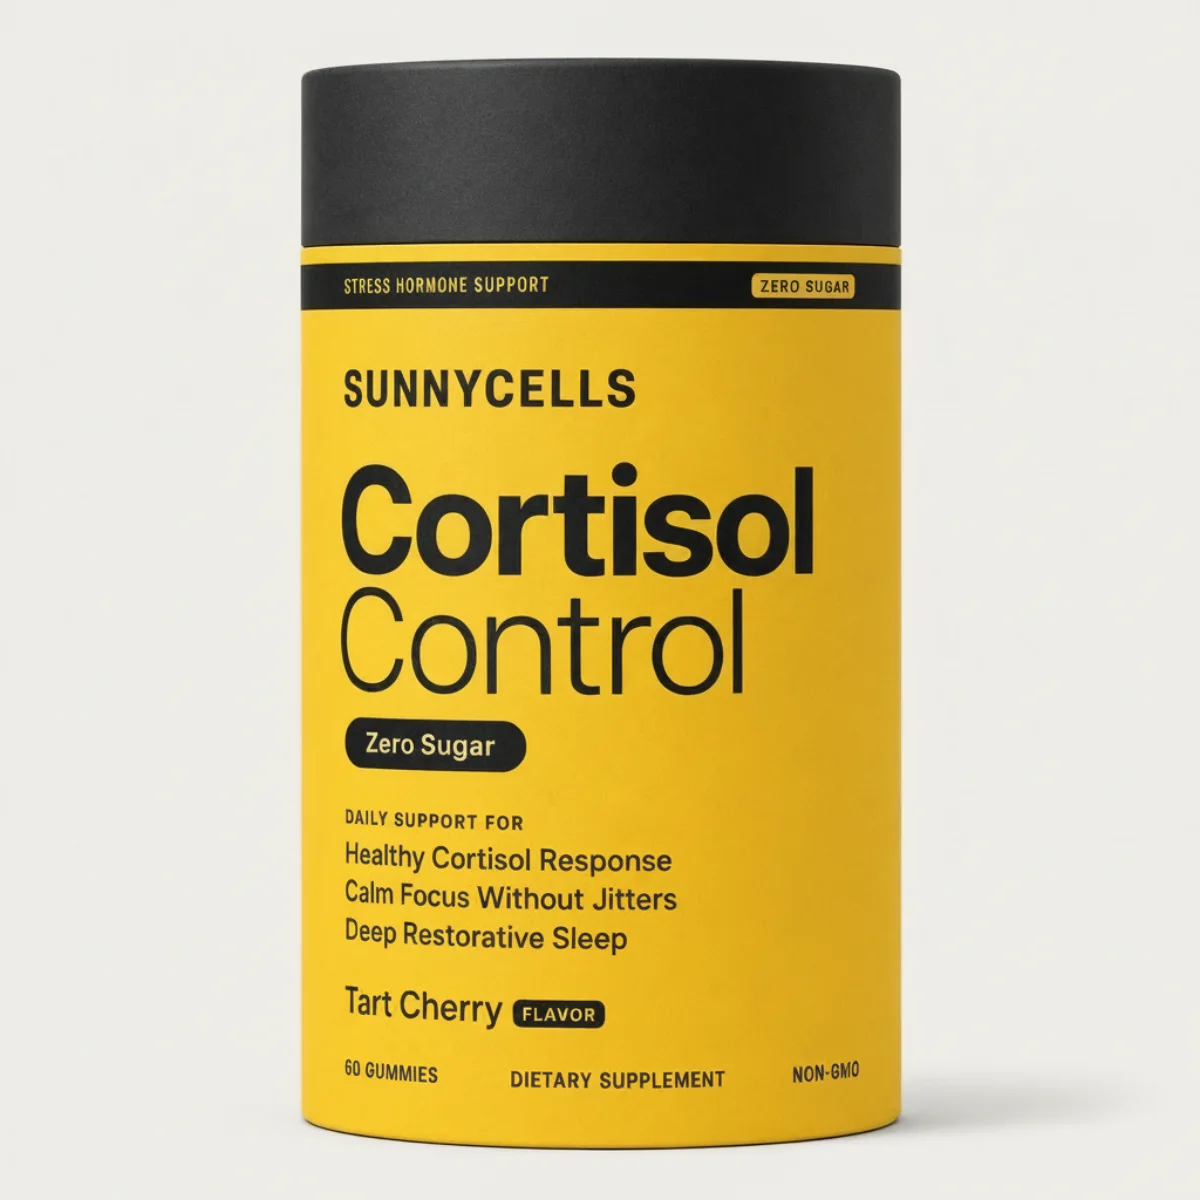
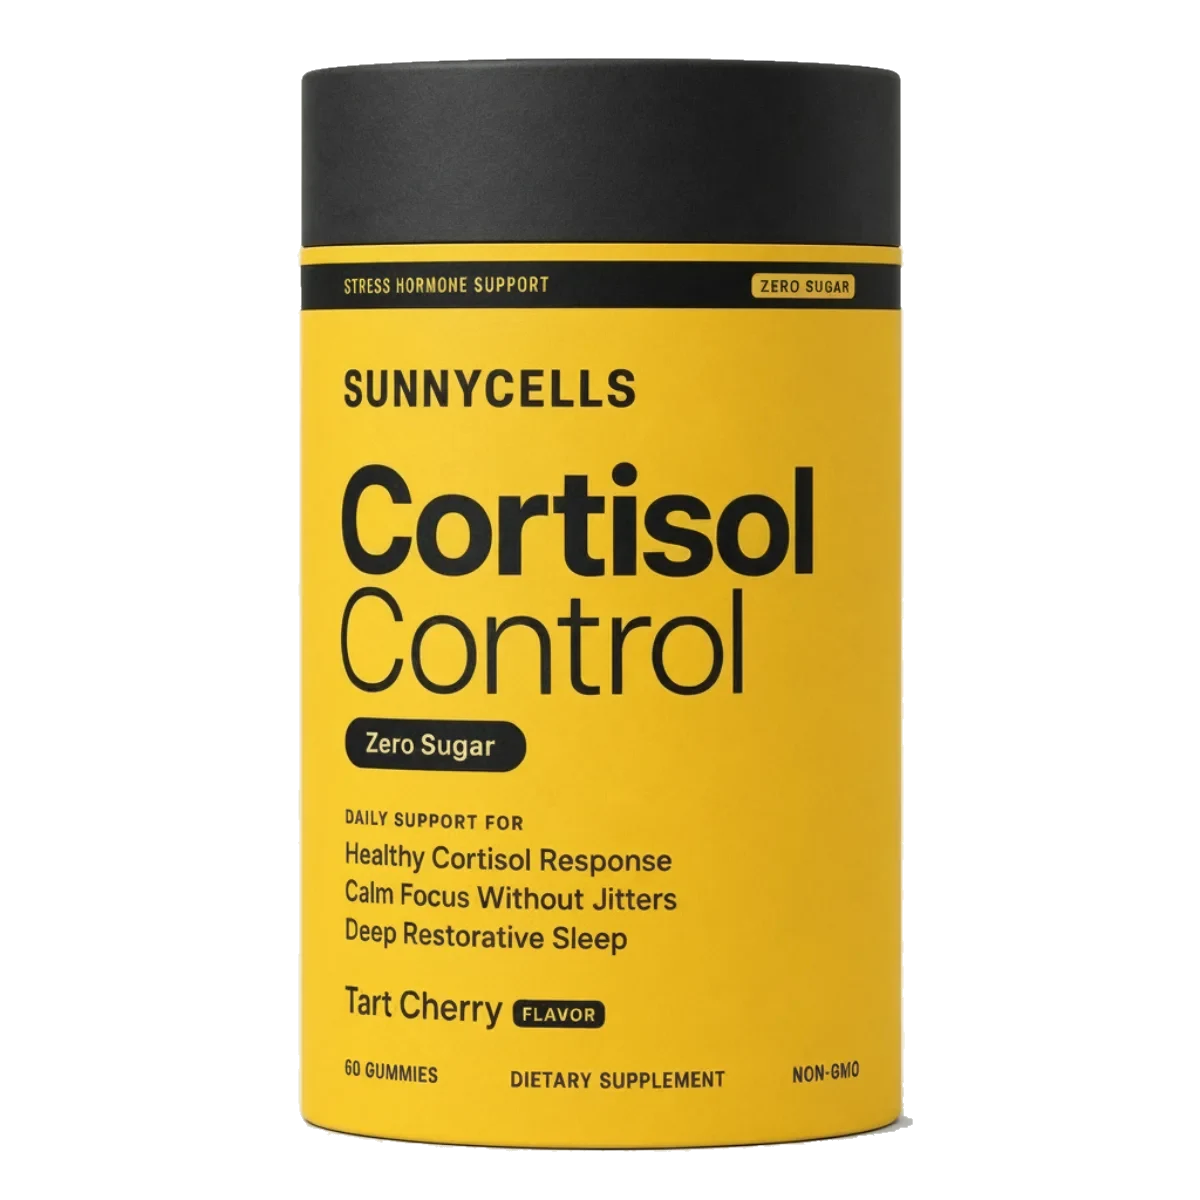
Cut out the pack backgrounds, and move the staging copy off the scoop
The three pack shots sit on cream cards and a tinted hero, so their studio
ground was showing as a rectangle. Cut with scripts/cutout.mjs.

That script only cleared background reachable from the border, which is right
for one product but leaves the floor between products in a group shot: it is
walled off by the products themselves. It gets a second pass now for enclosed
patches of background colour, gated on area so light lettering inside a dark
band survives while a floor does not.

The enclosed pass needed its own colour test. A floor lit by a coloured product
picks up that colour and stops being neutral: measured at spread 24 on the open
floor under the yellow canisters and 34 in the contact shadow, where the flood's
limit is 16. Loosening the flood itself would have eaten the specular highlights
down the tube, so the tolerance is raised only where enclosure and area already
prove it is floor.

Copy re-pointed off the powder: product name, plans title, ingredients heading,
both how-it-works steps, the flavour row in the comparison, five FAQs, all four
reviews and the headline one. Claims, timings and prices are the live page's,
untouched. Scoop, stir and powder survive in three places on purpose, as the
contrast: "no scoop", "chewing them is the whole routine", and a customer
saying she is wary of powders.

diff --git a/lib/quiz/stagingPlansContent.ts b/lib/quiz/stagingPlansContent.ts
@@ -10,6 +10,13 @@ import { PLANS, type Plan } from "./plans";
  * STATIC STAGING. It is not wired into the funnel, nothing links to it, and its route
  * is noindex. The live page at /quiz/diet/results/plans is unchanged.
  *
+ * The copy is also re-pointed off the powder. The live page is a scoop mixed into
+ * water, and every line that says so had to move: the product name, the plans title,
+ * the ingredients heading, both how-it-works steps, the comparison rows about flavour,
+ * six FAQs, and the four reviews plus the headline one, which between them mention a
+ * scoop, mixing, dissolving, powders and a mild orange squash. Nothing else changed:
+ * the claims, the timings and the prices are the live page's.
+ *
  * The eight ingredient panels keep their existing photographs. Those are real
  * ingredient shots that already ship, and the new set has no equivalent for
  * rhodiola or phosphatidylserine, so swapping them would be a downgrade.
@@ -23,9 +30,59 @@ export const STAGING_PLANS: Plan[] = PLANS.map((p) => ({
   image: `${IMG}/${p.months === 1 ? "pack-1" : p.months === 3 ? "pack-3" : "pack-6"}.webp`,
 }));
 
+const PRODUCT = "Cortisol Control";
+
+/* Reviews are the live ones with the format changed and nothing else: the same people,
+   the same claims, the same timings. Only what they are putting in their mouth moves. */
+const REVIEWS = [
+  { ...DIET_PLANS_CONTENT.reviews[0] },
+  {
+    ...DIET_PLANS_CONTENT.reviews[1],
+    body: "A month in and the three o'clock write-off has stopped. They taste like a proper tart cherry sweet, which matters when you are taking them every single morning.",
+  },
+  {
+    ...DIET_PLANS_CONTENT.reviews[2],
+    body: "I have taken enough powders to be suspicious of all of them. This one prints the milligrams on the front, which is the only reason I tried it. Two months on and I feel steadier than I have in years.",
+  },
+  {
+    ...DIET_PLANS_CONTENT.reviews[3],
+    body: "Two gummies, five seconds, no scoop and no shaker to wash. I tested cancelling in the first month on purpose and it took two clicks. I resubscribed the week after, which says more than the copy does.",
+  },
+];
+
 export const STAGING_PLANS_CONTENT: PlansContent = {
   ...DIET_PLANS_CONTENT,
+  productName: PRODUCT,
   productImage: `${IMG}/pack-1.webp`,
+  plansTitle: "Let the gummies do the work",
+  reviews: REVIEWS.map((r, i) => ({ ...r, photo: `${IMG}/review-${i + 1}.webp` })),
+  ingredientsTitle: `The science behind the core ingredients of ${PRODUCT}`,
+  comparisonNote: "Compared to other cortisol lowering supplements",
+  comparison: DIET_PLANS_CONTENT.comparison.map((c) =>
+    c === "Amazing orange flavor" ? "Amazing tart cherry flavor" : c),
+  faqs: DIET_PLANS_CONTENT.faqs.map((f) => {
+    const swap: Record<string, { title?: string; body?: string }> = {
+      "How do I use Metabolic Morning Blend?": {
+        title: `How do I use ${PRODUCT}?`,
+        body: "Two gummies a day, in the morning, with or without food. Chewing them is the whole routine.",
+      },
+      "How does it taste?": { body: "Tart cherry, mild, no sugar. It tastes like a sweet rather than a supplement." },
+      "Can I mix it with other products?": {
+        title: "Can I take it with other products?",
+        body: "Yes. It has no stimulants in it, so it sits alongside coffee, a protein shake, or anything else you already take.",
+      },
+      "Where should I store Metabolic Morning Blend?": {
+        title: `Where should I store ${PRODUCT}?`,
+        body: "Somewhere cool and dry with the lid closed. Not the windowsill, and not the fridge.",
+      },
+      "How long does the bag last?": {
+        title: "How long does a canister last?",
+        body: "One canister is 60 gummies, so a month at two a day.",
+      },
+    };
+    const o = swap[f.title];
+    return o ? { title: o.title ?? f.title, body: o.body ?? f.body } : f;
+  }),
   /* Each pillar gets the shot that shows its outcome rather than the drawn pair. */
   pillars: DIET_PLANS_CONTENT.pillars.map((p) => ({
     ...p,
@@ -34,11 +91,19 @@ export const STAGING_PLANS_CONTENT: PlansContent = {
     }.webp`,
   })),
   headlineReview: DIET_PLANS_CONTENT.headlineReview
-    ? { ...DIET_PLANS_CONTENT.headlineReview, photo: `${IMG}/story.webp` }
+    ? {
+        ...DIET_PLANS_CONTENT.headlineReview,
+        body: "I've been taking the cortisol gummies for three months, and the results have been nothing short of remarkable. My stress levels are much lower, and I've dropped 17 pounds without making major changes to my diet. They taste good and take five seconds, which is the only reason I have actually kept it up. I feel more relaxed and healthier than I have in years. Definitely recommend giving it a shot.",
+        photo: `${IMG}/story.webp`,
+      }
     : undefined,
-  reviews: DIET_PLANS_CONTENT.reviews.map((r, i) => ({ ...r, photo: `${IMG}/review-${i + 1}.webp` })),
   howItWorks: [
-    { ...DIET_PLANS_CONTENT.howItWorks[0], illustration: `${IMG}/palm-gummies.webp` },
+    {
+      ...DIET_PLANS_CONTENT.howItWorks[0],
+      title: "Take 2 gummies",
+      body: "Two tart cherry gummies in the morning. Chew them and get on with your day.",
+      illustration: `${IMG}/palm-gummies.webp`,
+    },
     { ...DIET_PLANS_CONTENT.howItWorks[1], illustration: `${IMG}/counter.webp` },
   ],
 };
